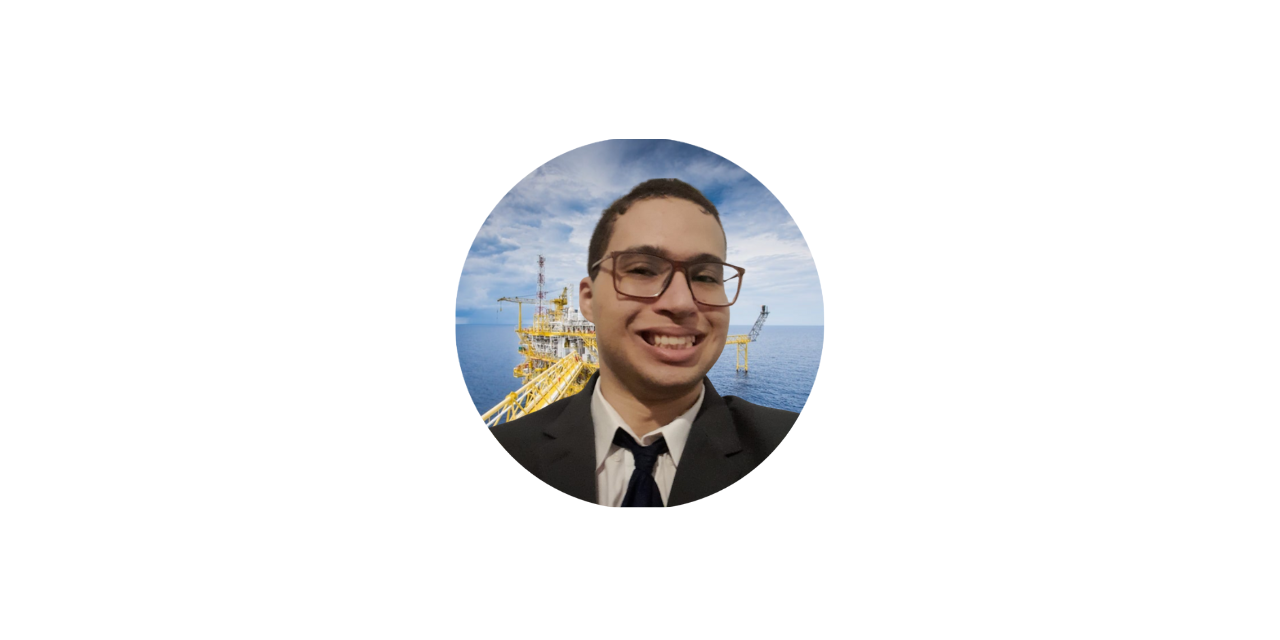
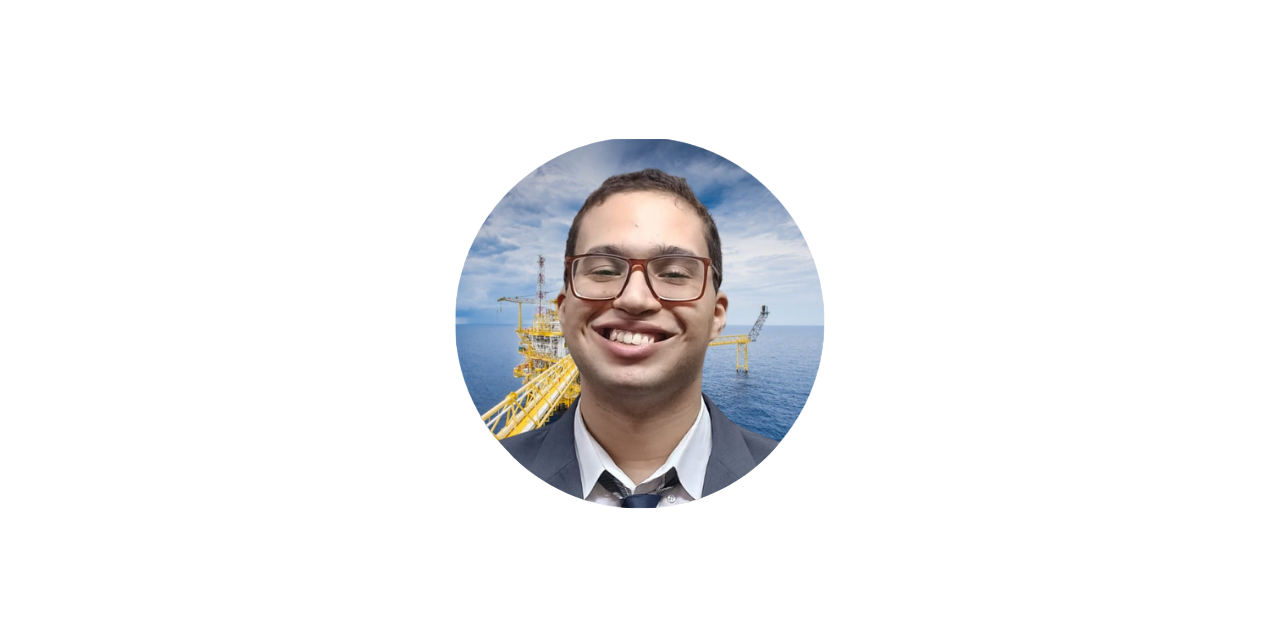
foto de todos os representantes inseridas

Changed region(s): [[0.375, 0.25, 0.625, 0.8125]]

diff --git a/Site oficial/index.html b/Site oficial/index.html
@@ -95,7 +95,7 @@
       <div class="boxes">
         <div class="box">
           <br><br><br><br><br><br><br><br><br><br><br><br><br><br><br><br><br><br><br><br><br><br><br><br><br><br><img
-            class="nos" src="./img/renan.png">
+            class="nos" src="./img/davi.png">
           <div class="boxTexto">
             <h4>Davi Santana Nunes da Silva</h4>
             <p>Lorem ipsum, dolor sit amet consectetur adipisicing elit. Et, quas cupiditate asperiores provident magnam
@@ -282,7 +282,7 @@
               </div>
               <div class="box3">
                 <br><br><br><br><br><br><br><br><br><br><br><br><br><br><br><br><br><br><br><br><br><br><br><br><br><br><img
-                  class="valor" src="./img/servicosAPI.png">
+                  class="valor" src="./img/servicosAPI2.png">
                 <div class="boxTexto3">
                   <h4 style="color: black;">API</h4>
                   <p style="color: black;">Através da API, fazemos uma aplicação para que, com os dados capturados pelo sensor MQ-2, por meio do banco de dados (MySQL Server),

diff --git a/Site oficial/css/style.css b/Site oficial/css/style.css
@@ -606,7 +606,6 @@ h1 {
     
 
     margin-left: -25px;
-    background-color: #e5e5e5;
     background-size: 100px;
     flex-direction: row;
     justify-content: space-between;
